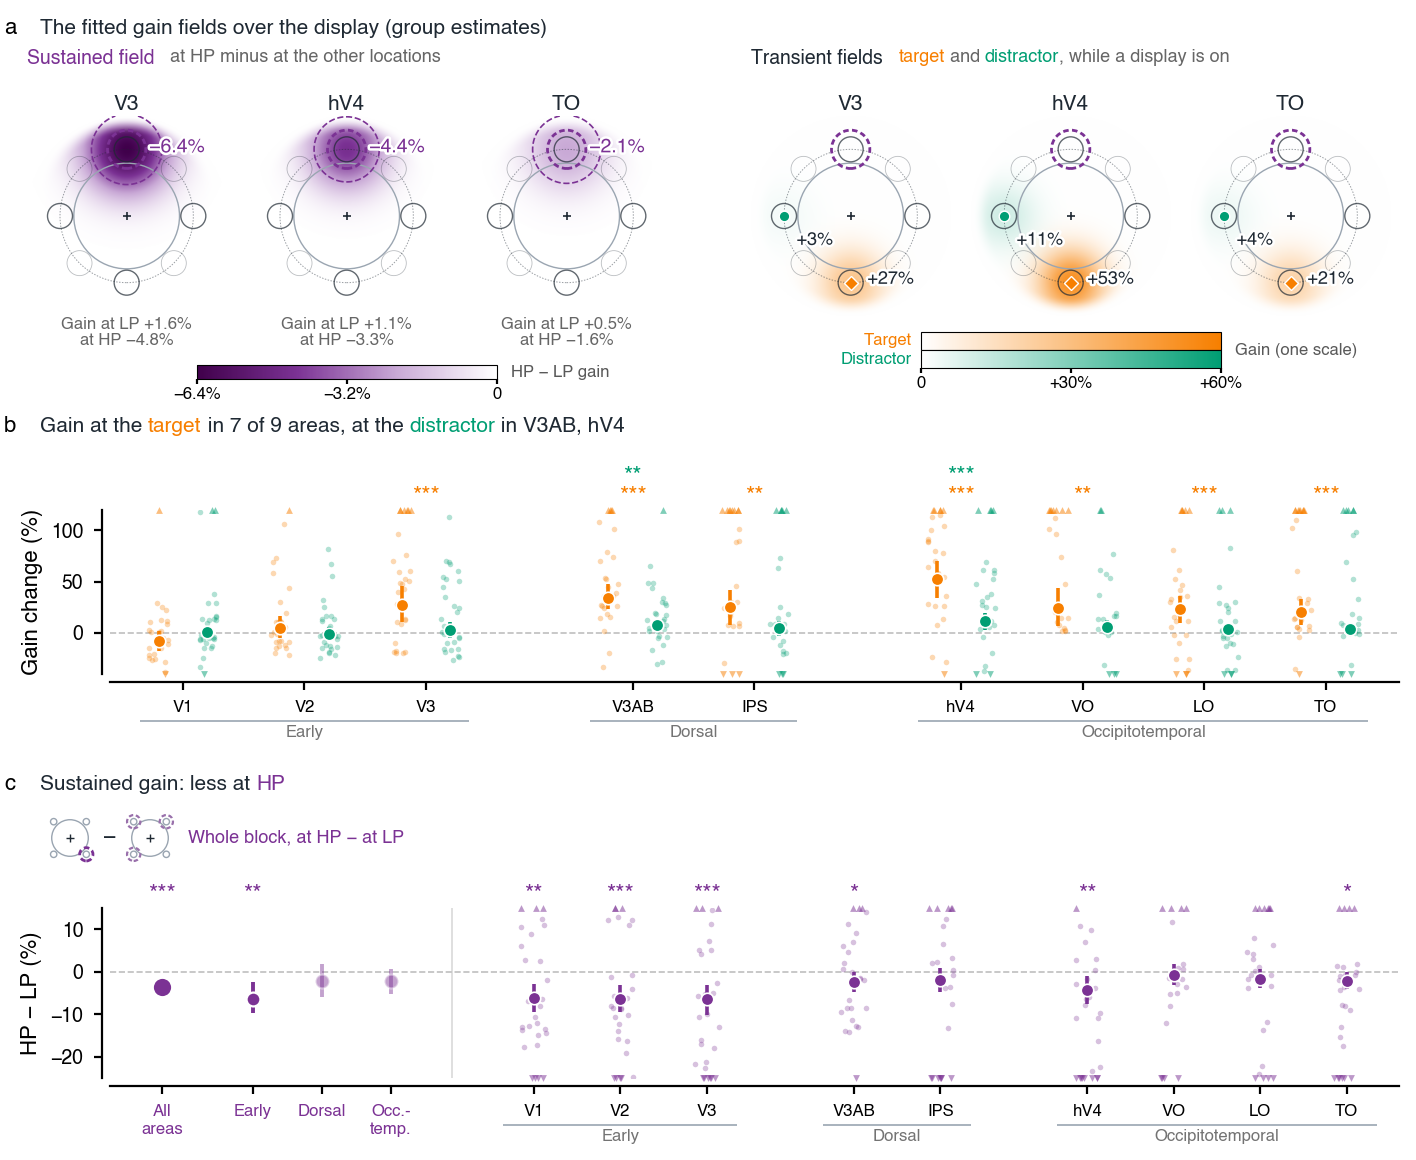
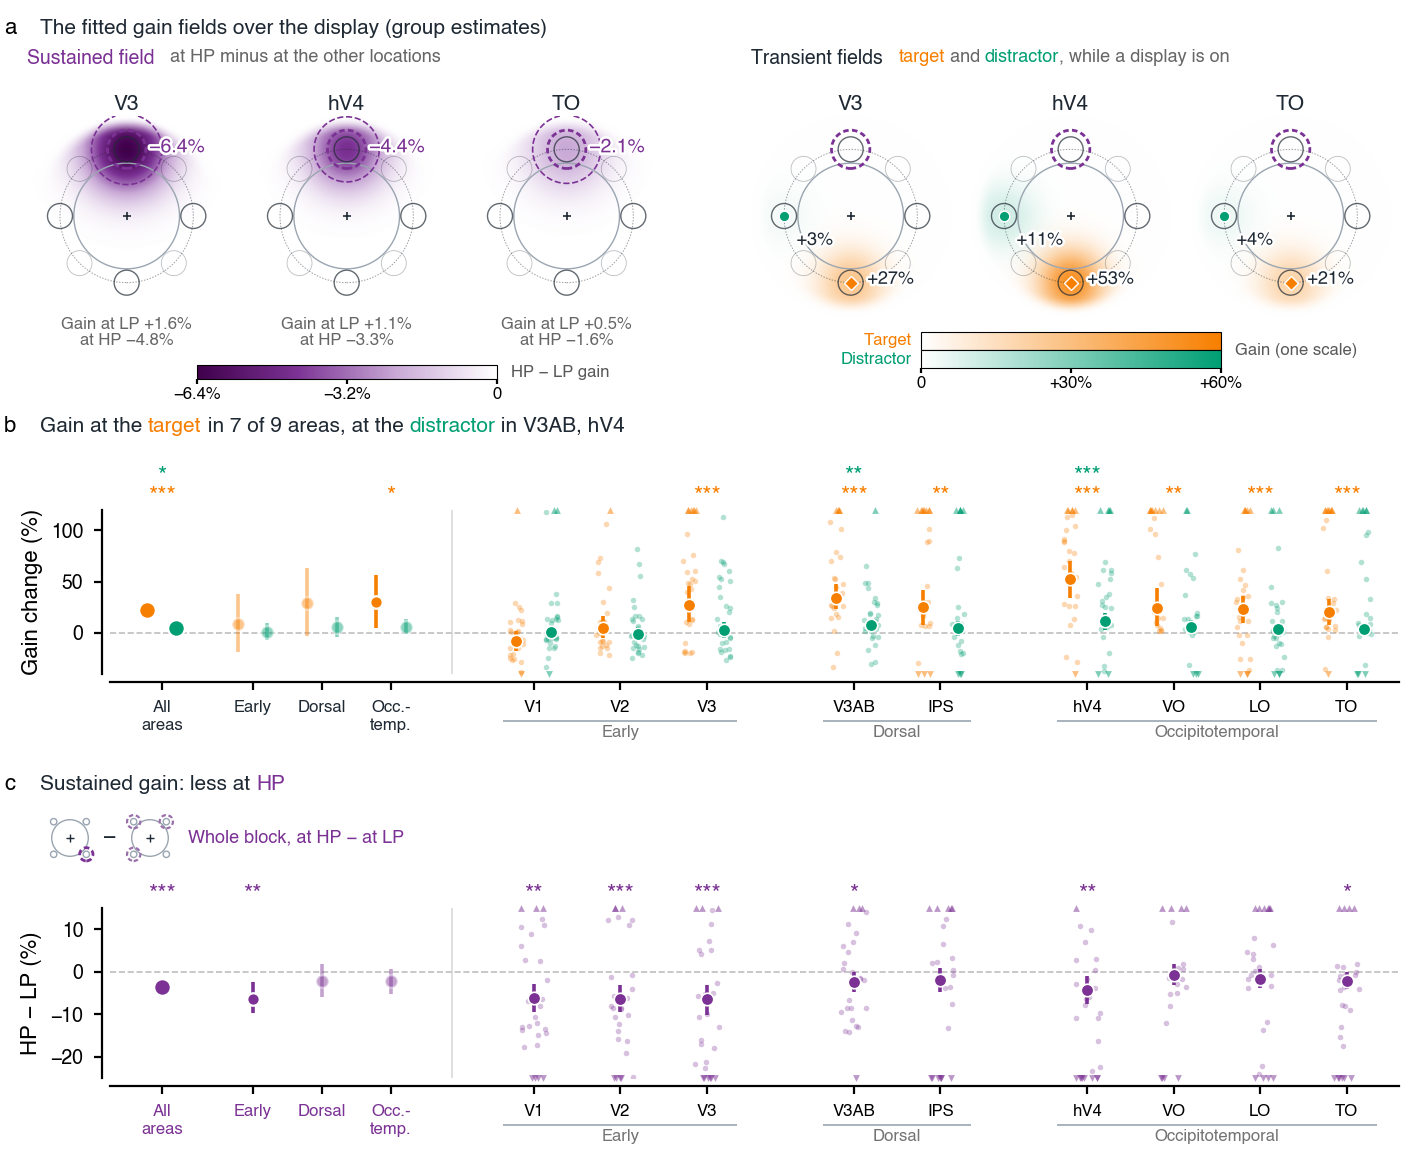
Fig. 5 (--bayes-dir): all-areas and pathway means in panel b as in c

diff --git a/retsupp/visualize/paper/fig5_gain_fields_v6.py b/retsupp/visualize/paper/fig5_gain_fields_v6.py
@@ -706,6 +706,7 @@ def main(gain_table, conditional_table, slope_table, sigma_table, suffix, per_ar
             F.dot_panel(ax, [(B['est']['target'], 'y', TARGET, B['sm']['target']),
                              (B['est']['distractor'], 'y', DISTRACTOR, B['sm']['distractor'])], (-40, 120),
                         'Gain change (%)')
+            pooled_bayes(ax, B, (-40, 120), series=(('target', TARGET), ('distractor', DISTRACTOR)))
         else:
             F.dot_panel(ax, [(d100, 'T', TARGET, sm100('T')), (d100, 'D', DISTRACTOR, sm100('D'))], (-40, 120),
                         'Gain change (%)')
@@ -888,22 +889,26 @@ BAYES_UNITS = [('all', 'All\nareas', -4.3), ('early', 'Early', -3.25), ('dorsal'
                ('occipitotemporal', 'Occ.-\ntemp.', -1.65)]
 
 
-def pooled_bayes(ax, B, ylim):
-    """Panel c with the hierarchical model: the mean over all nine areas and the three pathway means (posterior mean,
-    95% HDI, stars from the posterior probability of the sign), left of a divider; the areas as before."""
+def pooled_bayes(ax, B, ylim, series=(('dS', None),)):
+    """The mean over all nine areas and the three pathway means (posterior mean, 95% HDI, stars from the posterior
+    probability of the sign), left of a divider; the areas as before. series: (term, colour) pairs, side by side."""
     from retsupp.visualize.paper.fig7_behaviour import XMAX
     lo, hi = ylim
-    post = B['post'][B['post'].question == 'dS']
+    off = [0.] if len(series) == 1 else [-.17, .17]
     out = {}
-    for unit, lab, x in BAYES_UNITS:
-        r = post[(post.unit == unit) & post.level.isin(['overall', 'group'])].iloc[0]
-        pr = max(r.p_gt0, r.p_lt0)
-        big = unit == 'all'
-        ax.errorbar(x, r['mean'], yerr=[[r['mean'] - r.hdi_lo], [r.hdi_hi - r['mean']]], fmt='o', ms=7 if big else 5,
-                    color=HP, mec='w', mew=.8, lw=2.0 if big else 1.4, capsize=0, zorder=5, alpha=1 if pr > .975 else .45)
-        ax.text(x, hi + .02 * (hi - lo), F.stars(2 * (1 - pr)), ha='center', va='bottom', fontsize=8.5, color=HP,
-                clip_on=False)
-        out[unit] = dict(mean=r['mean'], lo=r.hdi_lo, hi=r.hdi_hi, P=pr)
+    for k, (term, color) in enumerate(series):
+        color = color or HP
+        post = B['post'][B['post'].question == term]
+        for unit, lab, x in BAYES_UNITS:
+            r = post[(post.unit == unit) & post.level.isin(['overall', 'group'])].iloc[0]
+            pr = max(r.p_gt0, r.p_lt0)
+            big = unit == 'all'
+            ax.errorbar(x + off[k], r['mean'], yerr=[[r['mean'] - r.hdi_lo], [r.hdi_hi - r['mean']]], fmt='o',
+                        ms=6 if big else 4.5, color=color, mec='w', mew=.8, lw=1.8 if big else 1.3, capsize=0, zorder=5,
+                        alpha=1 if pr > .975 else .45, clip_on=False)
+            ax.text(x, hi + (.02 + .12 * k) * (hi - lo), F.stars(2 * (1 - pr)), ha='center', va='bottom',
+                    fontsize=8.5, color=color, clip_on=False)
+            out[(term, unit)] = dict(mean=r['mean'], lo=r.hdi_lo, hi=r.hdi_hi, P=pr)
     ax.axvline(-.95, color='.85', lw=.6, zorder=0)
     ax.hlines(0, BAYES_UNITS[0][2] - .6, -.6, color='.75', lw=.6, ls='--', zorder=0)
     ax.set_xlim(BAYES_UNITS[0][2] - .6, XMAX + .6)
@@ -911,8 +916,9 @@ def pooled_bayes(ax, B, ylim):
     labels = [u[1] for u in BAYES_UNITS] + [t.get_text() for t in ax.get_xticklabels()]
     ax.set_xticks(ticks)
     ax.set_xticklabels(labels, fontsize=6)
+    lab_col = series[0][1] or HP if len(series) == 1 else FG
     for i in range(len(BAYES_UNITS)):
-        ax.get_xticklabels()[i].set_color(HP)
+        ax.get_xticklabels()[i].set_color(lab_col)
     ax.get_xticklabels()[0].set_fontweight('bold')
     return out
 
@@ -942,7 +948,11 @@ def bayes_legend(legend, B, n):
            f"HalfNormal SDs; PyMC with nutpie, 4 × 2000 draws, no divergences, max R̂ ≤ 1.01). Points and bars, "
            f"posterior mean and 95% HDI; stars, posterior probability of the sign shown: * > .975, ** > .995, "
            f"*** > .9995. Partial pooling over areas takes the place of a correction across areas. n = {n}. "
-           f"b, Gain at the target (orange) and at the distractor (green) while a search display is on. Over all nine "
+           f"b, Gain at the target (orange) and at the distractor (green) while a search display is on; left of the "
+           f"divider, the mean over all nine areas and the pathway means (target: early {f(g('target', 'early'), '%')}, "
+           f"dorsal {f(g('target', 'dorsal'), '%')}, occipitotemporal {f(g('target', 'occipitotemporal'), '%')}; "
+           f"distractor: early {f(g('distractor', 'early'), '%')}, dorsal {f(g('distractor', 'dorsal'), '%')}, "
+           f"occipitotemporal {f(g('distractor', 'occipitotemporal'), '%')}). Over all nine "
            f"areas: target {f(g('target', 'all'), '%')}, distractor {f(g('distractor', 'all'), '%')}; credible in "
            f"{', '.join(sig('target'))} (target) and {', '.join(sig('distractor')) or 'no single area'} (distractor). "
            f"c, Sustained gain at HP minus at LP (dS). Left of the divider, the mean over all nine areas "

diff --git a/notes/figures/paper_2026-11/fig5_gain_fields_v11_abc_zs_n28_palA_bayes.md b/notes/figures/paper_2026-11/fig5_gain_fields_v11_abc_zs_n28_palA_bayes.md
@@ -1,1 +1,1 @@
-**Figure 5. The gain fields: gain at the target and the distractor, and less sustained gain at the high-probability (HP) location.** gain-field model fits with DoG pRFs, zero-sum sustained field, pRFs and gain fields fitted jointly (LM) (n = 28); gains are in % (the change in drive at the centre of a field: +30%, 30% more); differences between gains (HP − LP) are in percentage points of gain, written as %. a, The fitted parametric gain field over the search display, not data: for each area, the group estimates of panels b and c (posterior means; widths, the median over participants), put through the model's field equations. The display is rotated so that the HP location is at the top (purple dashed ring); small circles, the eight item positions on the 4° ring (dotted; stronger: the four possible target and distractor locations); grey circle, the 3.17° aperture of the mapping bar; +, fixation. Left three maps, the sustained field at HP minus at the low-probability (LP) locations: only the HP-specific part of the sustained field, the area's posterior mean HP − LP difference (dS, the value panel c plots, printed in bold next to HP) times the field's Gaussian at HP (width: the area's median full width at half maximum among fits whose sustained gain is reliably different from zero, |gain| > 2 SE; Supplementary Fig., field widths); thin purple line, the half−maximum (FWHM) contour of that field. One scale for the three areas, white (no difference) to deep purple at the deepest area's HP − LP (−6.4%; no headroom, so that area saturates). The sustained field itself is a suppression at all four possible locations in most areas (0 of 9: ); the grey lines under each map give the sustained gain at LP and at HP (median joint-fit LP gain; at HP, that plus the HP − LP difference drawn; with the pRFs refitted, the level shared by all four locations trades off against the item weight and the pRF amplitude, so read its sign, not its size). Right three maps, the transient fields of the target (orange, around the orange diamond, at an LP location, here opposite HP) and of the distractor (green, around the green dot, drawn at an LP location next to HP) in one map; values, the target gain of panel b and the distractor gain averaged over its locations, as in panel b (the transient HP − LP difference is in panel d); both on one scale, 0 to the largest value, so their colours compare directly. The transient fields exist only while a search display is on; their fitted width is often at a bound of the fit (0.5° or 8°), so it is set for display to the same FWHM of 3.2° in every area and is not interpreted (field widths per participant: Supplementary Fig., field widths). Values used: V3: sustained gain at LP +1.6%, at HP −4.8% (HP − LP = dS estimated alone −6.4%, the median of panel c; joint-fit dS −10%), width σ 1.79° (FWHM 4.2°, median of the 6 fits with a reliable sustained gain; all fits 5.0°); target gain +27%; distractor gain +3%; hV4: sustained gain at LP +1.1%, at HP −3.3% (HP − LP = dS estimated alone −4.4%, the median of panel c; joint-fit dS −8.2%), width σ 1.66° (FWHM 3.9°, median of the 5 fits with a reliable sustained gain; all fits 3.3°); target gain +53%; distractor gain +11%; TO: sustained gain at LP +0.5%, at HP −1.6% (HP − LP = dS estimated alone −2.1%, the median of panel c; joint-fit dS −2.8%), width σ 1.73° (FWHM 4.1°, median of the 6 fits with a reliable sustained gain; all fits 3.1°); target gain +21%; distractor gain +4%. The sustained gain is reliably lower at HP than at LP (q < .05) in hV4 in the joint fit and, estimated alone as drawn, in no area (panel c). The sum of the three fields during a search display is in Supplementary Fig. (gain field during search). b–d: dots are subjects (triangles, beyond the axis), points and bars the median and bootstrapped 95% CI; stars, Wilcoxon signed-rank test against 0, Benjamini-Hochberg across the nine ROIs, * q < .05, ** q < .01, *** q < .001 (exact p and q per ROI in the parameter table). b, c: per participant and area, the gains re-estimated around the joint fit (the gains of the sustained and transient fields solved by least squares, pRFs, HRF and field widths held at the joint fit), each with its leave-one-run-out jackknife SE (half the odd − even-run difference over the SE: median 0.71 for dS, 0.67 expected). Dots, participants (triangles, beyond the axis). Hierarchical Bayesian model per term (as Fig. 7): estimate ~ Student-t(ν, θ, √(SE² + τ²)), θ = pathway mean + area deviation + participant deviation (Student-t likelihood, ν ~ Gamma(2, 0.1); pathway means as fixed effects, HalfNormal SDs; PyMC with nutpie, 4 × 2000 draws, no divergences, max R̂ ≤ 1.01). Points and bars, posterior mean and 95% HDI; stars, posterior probability of the sign shown: * > .975, ** > .995, *** > .9995. Partial pooling over areas takes the place of a correction across areas. n = 28. b, Gain at the target (orange) and at the distractor (green) while a search display is on. Over all nine areas: target +22.9% [+15.0, +30.7], P = 1.000, distractor +4.5% [+0.5, +8.6], P = 0.988; credible in V3, V3AB, IPS, hV4, VO, LO, TO (target) and V3AB, hV4 (distractor). c, Sustained gain at HP minus at LP (dS). Left of the divider, the mean over all nine areas −3.6% [−5.2, −1.9], P = 1.000 and the pathway means: early −6.3% [−9.8, −2.5], P = 0.997, dorsal −2.2% [−6.0, +1.9], P = 0.893, occipitotemporal −2.2% [−5.3, +0.6], P = 0.946. Per area: V1 −6.1% [−9.4, −2.8], P = 0.999, V2 −6.4% [−9.4, −3.1], P = 1.000, V3 −6.4% [−10.1, −3.0], P = 1.000, V3AB −2.3% [−4.8, −0.1], P = 0.976, IPS −2.0% [−4.7, +0.8], P = 0.928, hV4 −4.4% [−7.7, −1.1], P = 0.998, VO −0.7% [−3.1, +1.9], P = 0.707, LO −1.6% [−3.8, +0.6], P = 0.935, TO −2.1% [−4.2, −0.2], P = 0.985. Without the SEs (each estimate weighted equally) nothing is credible, because a few participant × area estimates are very noisy (SEs up to 3 times the gain itself).
+**Figure 5. The gain fields: gain at the target and the distractor, and less sustained gain at the high-probability (HP) location.** gain-field model fits with DoG pRFs, zero-sum sustained field, pRFs and gain fields fitted jointly (LM) (n = 28); gains are in % (the change in drive at the centre of a field: +30%, 30% more); differences between gains (HP − LP) are in percentage points of gain, written as %. a, The fitted parametric gain field over the search display, not data: for each area, the group estimates of panels b and c (posterior means; widths, the median over participants), put through the model's field equations. The display is rotated so that the HP location is at the top (purple dashed ring); small circles, the eight item positions on the 4° ring (dotted; stronger: the four possible target and distractor locations); grey circle, the 3.17° aperture of the mapping bar; +, fixation. Left three maps, the sustained field at HP minus at the low-probability (LP) locations: only the HP-specific part of the sustained field, the area's posterior mean HP − LP difference (dS, the value panel c plots, printed in bold next to HP) times the field's Gaussian at HP (width: the area's median full width at half maximum among fits whose sustained gain is reliably different from zero, |gain| > 2 SE; Supplementary Fig., field widths); thin purple line, the half−maximum (FWHM) contour of that field. One scale for the three areas, white (no difference) to deep purple at the deepest area's HP − LP (−6.4%; no headroom, so that area saturates). The sustained field itself is a suppression at all four possible locations in most areas (0 of 9: ); the grey lines under each map give the sustained gain at LP and at HP (median joint-fit LP gain; at HP, that plus the HP − LP difference drawn; with the pRFs refitted, the level shared by all four locations trades off against the item weight and the pRF amplitude, so read its sign, not its size). Right three maps, the transient fields of the target (orange, around the orange diamond, at an LP location, here opposite HP) and of the distractor (green, around the green dot, drawn at an LP location next to HP) in one map; values, the target gain of panel b and the distractor gain averaged over its locations, as in panel b (the transient HP − LP difference is in panel d); both on one scale, 0 to the largest value, so their colours compare directly. The transient fields exist only while a search display is on; their fitted width is often at a bound of the fit (0.5° or 8°), so it is set for display to the same FWHM of 3.2° in every area and is not interpreted (field widths per participant: Supplementary Fig., field widths). Values used: V3: sustained gain at LP +1.6%, at HP −4.8% (HP − LP = dS estimated alone −6.4%, the median of panel c; joint-fit dS −10%), width σ 1.79° (FWHM 4.2°, median of the 6 fits with a reliable sustained gain; all fits 5.0°); target gain +27%; distractor gain +3%; hV4: sustained gain at LP +1.1%, at HP −3.3% (HP − LP = dS estimated alone −4.4%, the median of panel c; joint-fit dS −8.2%), width σ 1.66° (FWHM 3.9°, median of the 5 fits with a reliable sustained gain; all fits 3.3°); target gain +53%; distractor gain +11%; TO: sustained gain at LP +0.5%, at HP −1.6% (HP − LP = dS estimated alone −2.1%, the median of panel c; joint-fit dS −2.8%), width σ 1.73° (FWHM 4.1°, median of the 6 fits with a reliable sustained gain; all fits 3.1°); target gain +21%; distractor gain +4%. The sustained gain is reliably lower at HP than at LP (q < .05) in hV4 in the joint fit and, estimated alone as drawn, in no area (panel c). The sum of the three fields during a search display is in Supplementary Fig. (gain field during search). b–d: dots are subjects (triangles, beyond the axis), points and bars the median and bootstrapped 95% CI; stars, Wilcoxon signed-rank test against 0, Benjamini-Hochberg across the nine ROIs, * q < .05, ** q < .01, *** q < .001 (exact p and q per ROI in the parameter table). b, c: per participant and area, the gains re-estimated around the joint fit (the gains of the sustained and transient fields solved by least squares, pRFs, HRF and field widths held at the joint fit), each with its leave-one-run-out jackknife SE (half the odd − even-run difference over the SE: median 0.71 for dS, 0.67 expected). Dots, participants (triangles, beyond the axis). Hierarchical Bayesian model per term (as Fig. 7): estimate ~ Student-t(ν, θ, √(SE² + τ²)), θ = pathway mean + area deviation + participant deviation (Student-t likelihood, ν ~ Gamma(2, 0.1); pathway means as fixed effects, HalfNormal SDs; PyMC with nutpie, 4 × 2000 draws, no divergences, max R̂ ≤ 1.01). Points and bars, posterior mean and 95% HDI; stars, posterior probability of the sign shown: * > .975, ** > .995, *** > .9995. Partial pooling over areas takes the place of a correction across areas. n = 28. b, Gain at the target (orange) and at the distractor (green) while a search display is on; left of the divider, the mean over all nine areas and the pathway means (target: early +8.4% [−18.2, +37.9], P = 0.757, dorsal +29.6% [−2.6, +63.3], P = 0.963, occipitotemporal +30.3% [+4.6, +56.5], P = 0.986; distractor: early +0.9% [−6.9, +9.3], P = 0.594, dorsal +6.3% [−3.9, +15.4], P = 0.917, occipitotemporal +6.3% [−0.7, +13.5], P = 0.965). Over all nine areas: target +22.9% [+15.0, +30.7], P = 1.000, distractor +4.5% [+0.5, +8.6], P = 0.988; credible in V3, V3AB, IPS, hV4, VO, LO, TO (target) and V3AB, hV4 (distractor). c, Sustained gain at HP minus at LP (dS). Left of the divider, the mean over all nine areas −3.6% [−5.2, −1.9], P = 1.000 and the pathway means: early −6.3% [−9.8, −2.5], P = 0.997, dorsal −2.2% [−6.0, +1.9], P = 0.893, occipitotemporal −2.2% [−5.3, +0.6], P = 0.946. Per area: V1 −6.1% [−9.4, −2.8], P = 0.999, V2 −6.4% [−9.4, −3.1], P = 1.000, V3 −6.4% [−10.1, −3.0], P = 1.000, V3AB −2.3% [−4.8, −0.1], P = 0.976, IPS −2.0% [−4.7, +0.8], P = 0.928, hV4 −4.4% [−7.7, −1.1], P = 0.998, VO −0.7% [−3.1, +1.9], P = 0.707, LO −1.6% [−3.8, +0.6], P = 0.935, TO −2.1% [−4.2, −0.2], P = 0.985. Without the SEs (each estimate weighted equally) nothing is credible, because a few participant × area estimates are very noisy (SEs up to 3 times the gain itself).
